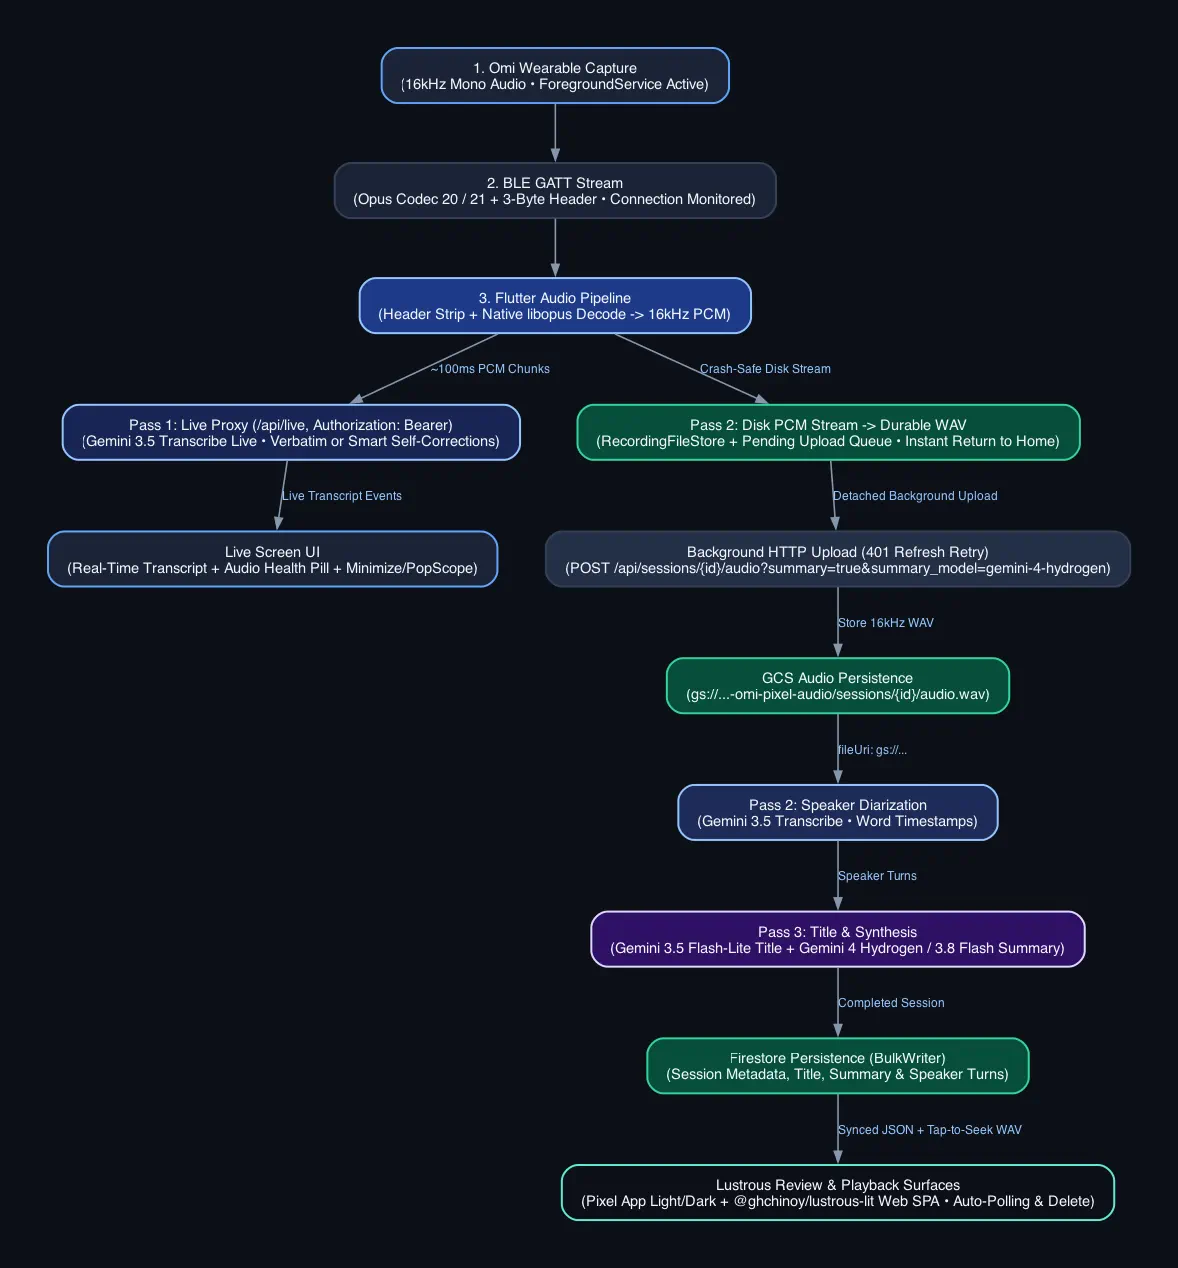
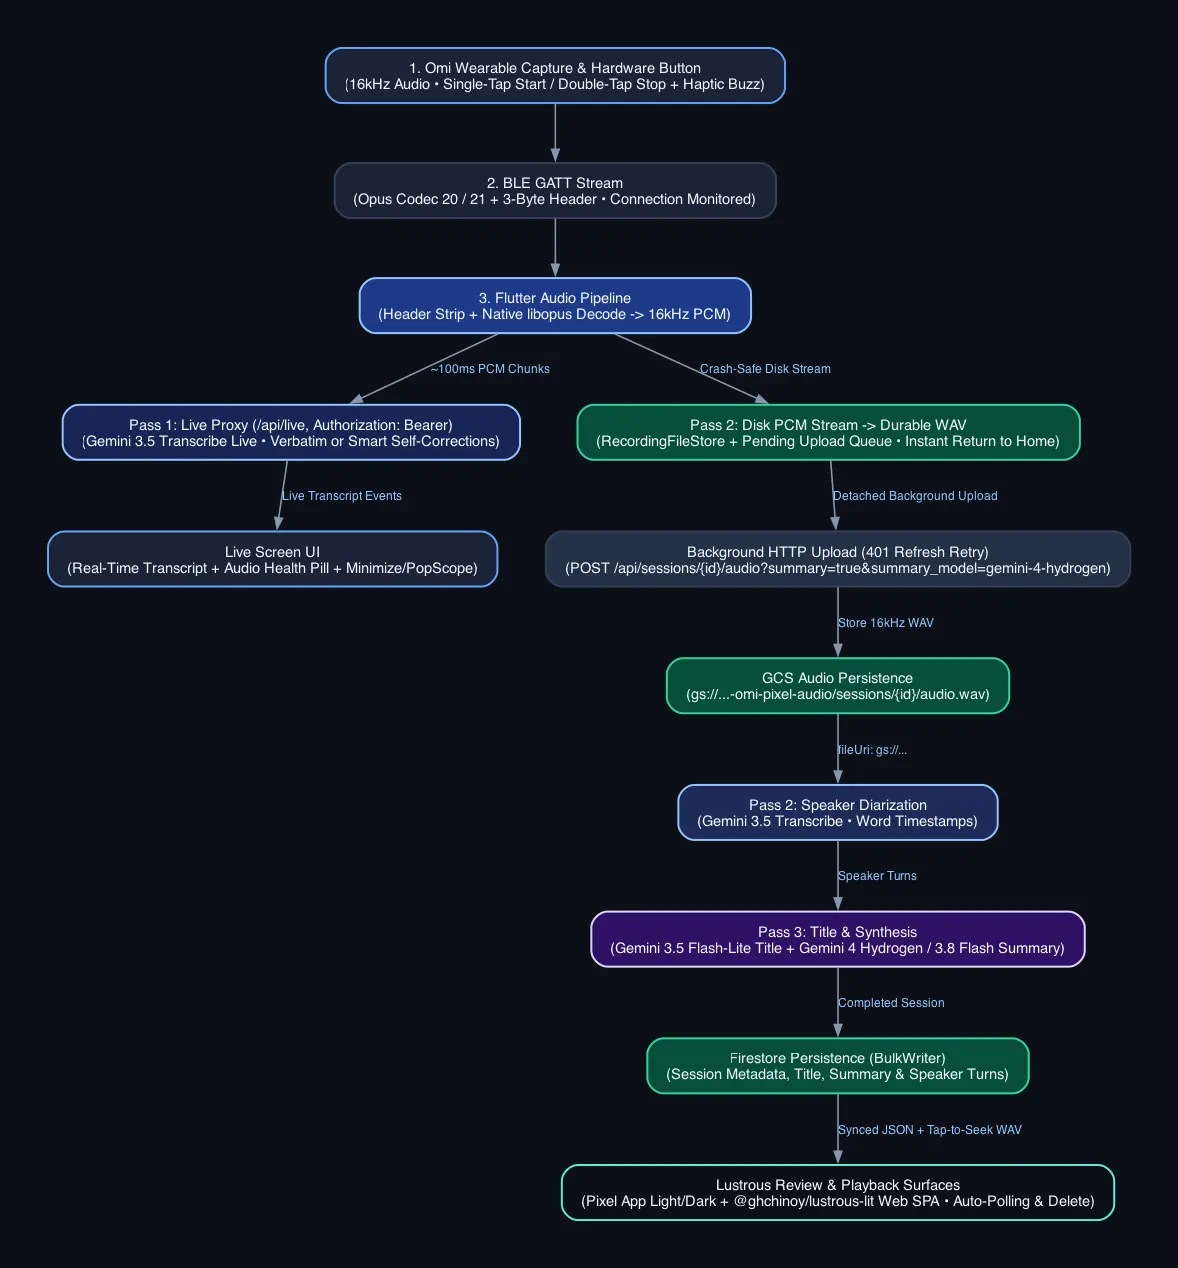
chore(release): bump v0.4.2, add light-mode diagrams, update docs & onboarding tasks

Changed region(s): [[0.275, 0.0308, 0.6723, 0.0923]]

diff --git a/app/lib/ui/settings_screen.dart b/app/lib/ui/settings_screen.dart
@@ -13,7 +13,7 @@ import '../theme/lustrous_theme.dart';
 import 'login_screen.dart';
 
 class SettingsScreen extends StatefulWidget {
-  static const String appVersion = '0.4.1+9';
+  static const String appVersion = '0.4.2+10';
 
   const SettingsScreen({super.key});
 

diff --git a/service/version.go b/service/version.go
@@ -2,4 +2,4 @@ package main
 
 // Version is the semantic version of the omi-pixel Go service.
 // Can be overridden at build time via -ldflags "-X main.Version=x.y.z".
-var Version = "0.4.1"
+var Version = "0.4.2"

diff --git a/docs/user-guide.md b/docs/user-guide.md
@@ -144,12 +144,16 @@ make install-apk
    - Enter your deployed Cloud Run Service URL (or `http://localhost:8080` via `make adb-reverse`) and tap **Test Connection** (displays both App and Backend versions at the bottom of Settings).
    - Configure **Summary Generation Model** (`Gemini 4 Hydrogen (Default)` or `Gemini 3.8 Flash (Faster)`), **Appearance** (`Light` / `Auto` / `Dark`), **Live Transcription Mode** (`Verbatim` or `Smart`), and **Spoken Language**.
    - Under **Background Recording Reliability**, if battery optimization is restricted, tap **Allow** to grant unrestricted background execution on Pixel.
+   - Under **Omi Hardware Button Control**, keep **Start & Finish via Omi Button** enabled (default on) for hands-free control and tap **Test Haptic** when connected to feel the wearable buzz.
 2. **Connect Wearable**:
    - Tap **Scan for Omi Device** and connect your Omi DevKit or CV1. Once paired, Omi-Pixel remembers the device and automatically reconnects on future launches.
-3. **Quick-Switch Live Mode & Record**:
-   - **Long-press** **Start Conversation** to toggle directly between **Verbatim** and **Smart (Inline Self-Corrections)** without opening Settings.
-   - Tap **Start Conversation** to open **Live Recording**. A green **Audio active** pill confirms live decoded PCM bytes/packets from your wearable.
-   - While recording, an ongoing `"Omi Recording Active"` Android notification keeps BLE & WebSocket streaming alive when you switch apps or lock your screen. Tap the top-left `⌄` button (or press Back → **Minimize**) to return to `HomeScreen` while recording continues; tap the active **"Recording in Progress"** banner or the Android notification to return to `LiveScreen`.
+3. **Start & Control Recording (Screen or Hardware Button)**:
+   - **Quick-Switch Live Mode**: **Long-press** **Start Conversation** on `HomeScreen` to toggle directly between **Verbatim** and **Smart (Inline Self-Corrections)** without opening Settings.
+   - **Hands-Free Omi Hardware Button**:
+     - **Single tap** the Omi button while idle (and Pixel unlocked) to **start recording** — Omi confirms with **1× medium haptic buzz (50ms)**.
+     - **Double tap** the Omi button while recording to **finish & diarize in the background** — Omi confirms with **2× short haptic buzzes (20ms × 2)** (works even while your Pixel is locked or in another app).
+     - *(Note: holding the Omi button for 3+ seconds triggers Omi's firmware power-off; per Android background best practices, starting a new recording via the hardware button requires your Pixel to be unlocked and Omi-Pixel set to Unrestricted battery.)*
+   - **Live Screen & Minimize**: Tap **Start Conversation** (or single-tap Omi while in the app) to open **Live Recording**. A green **Audio active** pill confirms live decoded PCM bytes/packets. An ongoing `"Omi Recording Active"` Android notification keeps BLE & WebSocket streaming alive across app switches and lock screen. Tap the top-left `⌄` button (or press Back → **Minimize**) to return to `HomeScreen` while recording continues; tap the active **"Recording in Progress"** banner or the notification to return.
 4. **Non-Blocking Finish & Background Diarization**:
    - Tap **Finish Recording & Diarize**. The WAV is saved immediately to on-device storage and you return to `HomeScreen` right away while diarization runs in the background (`DIARIZING` badge).
    - If the phone is offline or an upload fails, the WAV stays safely queued on device and appears in an amber **Retry Upload** banner until uploaded successfully (expired Firebase tokens are refreshed automatically on HTTP `401`).
@@ -175,6 +179,10 @@ make install-apk
 
 ### Audio Recording Pauses When Screen Locks
 - Open **Settings** inside Omi Pixel and tap **Allow** under **Background Recording Reliability**, or go to Android **Settings** > **Apps** > **Omi Pixel** > **App battery usage** and set it to **Unrestricted**.
+
+### Omi Hardware Button Does Not Start Recording
+- Confirm **Settings** > **Omi Hardware Button Control** > **Start & Finish via Omi Button** is enabled and shows `Connected: Button Ready`.
+- Ensure your Pixel screen is **unlocked** (starting a new recording while locked is intentionally blocked for privacy & Android background compliance) and **App battery usage** is set to **Unrestricted**.
 
 ### Gradle Build Fails After Dependency Upgrade (`Unresolved reference`)
 - Run `make clean && make install-apk` to clear stale incremental Kotlin caches under `app/build/`.

diff --git a/docs/developer-guide.md b/docs/developer-guide.md
@@ -8,7 +8,10 @@ This document covers the technical architecture, multi-pass speech-to-text pipel
 
 The Omi-Pixel system separates low-latency mobile wearable interaction from structured AI processing and cloud persistence.
 
-![Omi-Pixel Architecture](diagrams/architecture.webp)
+<picture>
+  <source media="(prefers-color-scheme: light)" srcset="diagrams/architecture-light.webp">
+  <img src="diagrams/architecture.webp" alt="Omi-Pixel Architecture">
+</picture>
 
 The architecture contains three core tiers:
 
@@ -23,7 +26,10 @@ The architecture contains three core tiers:
 
 ## 2. The Multi-Stage Pipeline
 
-![Omi-Pixel Data Flow](diagrams/dataflow.webp)
+<picture>
+  <source media="(prefers-color-scheme: light)" srcset="diagrams/dataflow-light.webp">
+  <img src="diagrams/dataflow.webp" alt="Omi-Pixel Data Flow">
+</picture>
 
 ```text
 Pass 1 (Live UX):
@@ -59,10 +65,17 @@ Pass 3 (Metadata & Synthesis):
 The mobile app uses the `omi_device` Dart SDK (`sdks/device/dart`) and `flutter_blue_plus` (monitoring `BluetoothDevice.connectionState` for mid-recording disconnects).
 
 ### GATT Characteristics
-- **Service UUID**: `19b10000-e8f2-537e-4f6c-d104768a1214`
-- **Audio Stream Characteristic (Notify)**: `19b10001-e8f2-537e-4f6c-d104768a1214`
-- **Codec Characteristic (Read)**: `19b10002-e8f2-537e-4f6c-d104768a1214`
+- **Audio Service UUID**: `19b10000-e8f2-537e-4f6c-d104768a1214`
+  - **Audio Stream Characteristic (Notify)**: `19b10001-e8f2-537e-4f6c-d104768a1214`
+  - **Codec Characteristic (Read)**: `19b10002-e8f2-537e-4f6c-d104768a1214`
+- **Button Service UUID**: `23ba7924-0000-1000-7450-346eac492e92`
+  - **Button Trigger Characteristic (Read/Notify)**: `23ba7925-0000-1000-7450-346eac492e92` — 8-byte payload (`int[2]`), bytes `0..3` little-endian `uint32`: `1` = Single Tap (start recording when unlocked), `2` = Double Tap (finish & diarize), `3` = Long Tap (firmware power-off, ignored), `5` = Release (ignored).
+- **Haptic Service UUID**: `cab1ab95-2ea5-4f4d-bb56-874b72cfc984`
+  - **Haptic Trigger Characteristic (Write)**: `cab1ab96-2ea5-4f4d-bb56-874b72cfc984` — 1-byte level (`1` = 20ms, `2` = 50ms, `3` = 500ms). Used to buzz 1× on Start and 2× on Finish.
 - **Battery Level (Read/Notify)**: `00002a19-0000-1000-8000-00805f9b34fb`
+
+### Native Android Lock-Screen Guard
+- `app/android/app/src/main/kotlin/com/ghchinoy/omi_pixel/MainActivity.kt` exposes `MethodChannel("com.ghchinoy.omi_pixel/device_state")` → `"isDeviceLocked"` (`KeyguardManager.isKeyguardLocked`) so `SessionManager.handleHardwareButtonEvent()` blocks starting new recordings from a locked device while still permitting double-tap Finish on an active recording.
 
 ### Codec Map
 
@@ -151,7 +164,7 @@ infra/
 - **Auth**: Public
 - **Response**: `200 OK`
   ```json
-  { "service": "omi-pixel", "status": "ok", "version": "0.4.1" }
+  { "service": "omi-pixel", "status": "ok", "version": "0.4.2" }
   ```
 
 ### Live Transcription WebSocket

diff --git a/README.md b/README.md
@@ -1,6 +1,6 @@
 # 🎙 Omi-Pixel
 
-[![Version](https://img.shields.io/badge/version-0.4.1-38bdf8?style=flat-square)](CHANGELOG.md)
+[![Version](https://img.shields.io/badge/version-0.4.2-38bdf8?style=flat-square)](CHANGELOG.md)
 [![Platform](https://img.shields.io/badge/platform-Google%20Pixel%20%7C%20Android-22c55e?style=flat-square)](#supported-hardware--audio-codecs)
 [![Backend](https://img.shields.io/badge/backend-Go%201.26%20%7C%20Cloud%20Run-0284c7?style=flat-square)](#architecture)
 [![AI](https://img.shields.io/badge/Vertex%20AI-Gemini%203.5%20Transcribe%20%2B%204%20Hydrogen-6366f1?style=flat-square)](#why-omi-pixel)
@@ -16,7 +16,7 @@ A standalone, self-hosted **Flutter companion app for Google Pixel** and **Go Cl
 - **⚡ Two-Pass Gemini 3.5 + 4 Hydrogen Pipeline**:
   - **Pass 1 (Real-Time UX)**: Streams 16kHz mono PCM over WebSocket (`Authorization: Bearer`) to `gemini-3.5-transcribe-live` for instant verbatim or Smart (inline self-correction) transcription while you speak.
   - **Pass 2 (Non-Blocking Diarization & Synthesis)**: Persists the 16kHz WAV locally on disk, uploads in the background to Cloud Storage, separates speakers (`Speaker 1`, `Speaker 2`, …) with word timestamps via `gemini-3.5-transcribe` (plus a parallel Smart-corrected transcript pass when recorded in Smart mode), and synthesizes titles (`gemini-3.5-flash-lite`) and takeaways (`gemini-4-hydrogen` default, or `gemini-3.8-flash` selectable in Settings).
-- **🔋 Resilient Pixel Companion**: Native `libopus` decoding (`Codec 20` & `Codec 21`), Android `ForegroundService` (`connectedDevice`) for lock-screen/app-switch recording, BLE auto-reconnect, crash-safe disk PCM/WAV upload queue, and Lustrous Light/Auto/Dark themes.
+- **🔋 Resilient Pixel Companion**: Native `libopus` decoding (`Codec 20` & `Codec 21`), Android `ForegroundService` (`connectedDevice`) for lock-screen/app-switch recording, **hands-free Omi hardware button start/finish with haptic buzz confirmation**, BLE auto-reconnect, crash-safe disk PCM/WAV upload queue, and Lustrous Light/Auto/Dark themes.
 - **⏯ Tap-to-Seek Audio Review (Mobile & Web)**: Toggle between **Smart Transcript** and **Diarized Turns**, and tap any speaker turn card on your phone or in the Lustrous Web Review Dashboard to seek the 16kHz WAV player directly to that timestamp.
 
 > [!TIP]
@@ -61,7 +61,10 @@ Built for **[Omi](https://www.omi.me/)** open-source wearable hardware (and comp
 
 ## 🏗 Architecture
 
-![Omi-Pixel Architecture](docs/diagrams/architecture.webp)
+<picture>
+  <source media="(prefers-color-scheme: light)" srcset="docs/diagrams/architecture-light.webp">
+  <img src="docs/diagrams/architecture.webp" alt="Omi-Pixel Architecture">
+</picture>
 
 ---
 

diff --git a/CHANGELOG.md b/CHANGELOG.md
@@ -8,6 +8,15 @@ and this project adheres to [Semantic Versioning](https://semver.org/spec/v2.0.0
 
 ## [Unreleased]
 
+## [0.4.2] - 2026-11-23
+
+### Added
+- **Hands-Free Omi Hardware Button & Haptic Control**: Subscribed to the Omi BLE Button GATT service (`23ba7924` / `23ba7925`) and Haptic GATT service (`cab1ab95` / `cab1ab96`) with native Android `KeyguardManager.isKeyguardLocked` lock-screen protection (`MainActivity.kt`) and 1.5s debounce. Single-tap when idle (Pixel unlocked) starts recording with a 1× 50ms haptic buzz; double-tap while recording finishes & diarizes in the background with 2× 20ms buzzes (works even while locked). Added a permanent Settings toggle, **Test Haptic** button, live `deviceStream` updates, and clear Android background/unlock disclosure `[omi-pixel-8nh, omi-pixel-gka]`.
+- **Mineral Slate Light Mode Diagrams**: Added `docs/diagrams/architecture-light.dot` / `.webp` and `docs/diagrams/dataflow-light.dot` / `.webp` (plus updated dark diagrams for hardware button & haptic GATT) and wired adaptive `<picture>` `prefers-color-scheme` sources in `README.md` and `docs/developer-guide.md`.
+
+### Changed
+- **Updated User & Developer Guides**: Added hands-free Omi hardware button instructions, Android lock/background disclosure, troubleshooting, and Button/Haptic GATT protocol documentation to `docs/user-guide.md` and `docs/developer-guide.md`.
+
 ## [0.4.1] - 2026-11-23
 
 ### Added
@@ -110,7 +119,8 @@ _Initial release._
 - Audio playback cards with turn tap-to-seek synchronization on both mobile and web clients.
 - Infrastructure automation scripts (`infra/`) and top-level `Makefile`.
 
-[Unreleased]: https://github.com/ghchinoy/omi-pixel/compare/v0.4.1...HEAD
+[Unreleased]: https://github.com/ghchinoy/omi-pixel/compare/v0.4.2...HEAD
+[0.4.2]: https://github.com/ghchinoy/omi-pixel/compare/v0.4.1...v0.4.2
 [0.4.1]: https://github.com/ghchinoy/omi-pixel/compare/v0.4.0...v0.4.1
 [0.4.0]: https://github.com/ghchinoy/omi-pixel/compare/v0.3.4...v0.4.0
 [0.3.4]: https://github.com/ghchinoy/omi-pixel/compare/v0.3.3...v0.3.4
